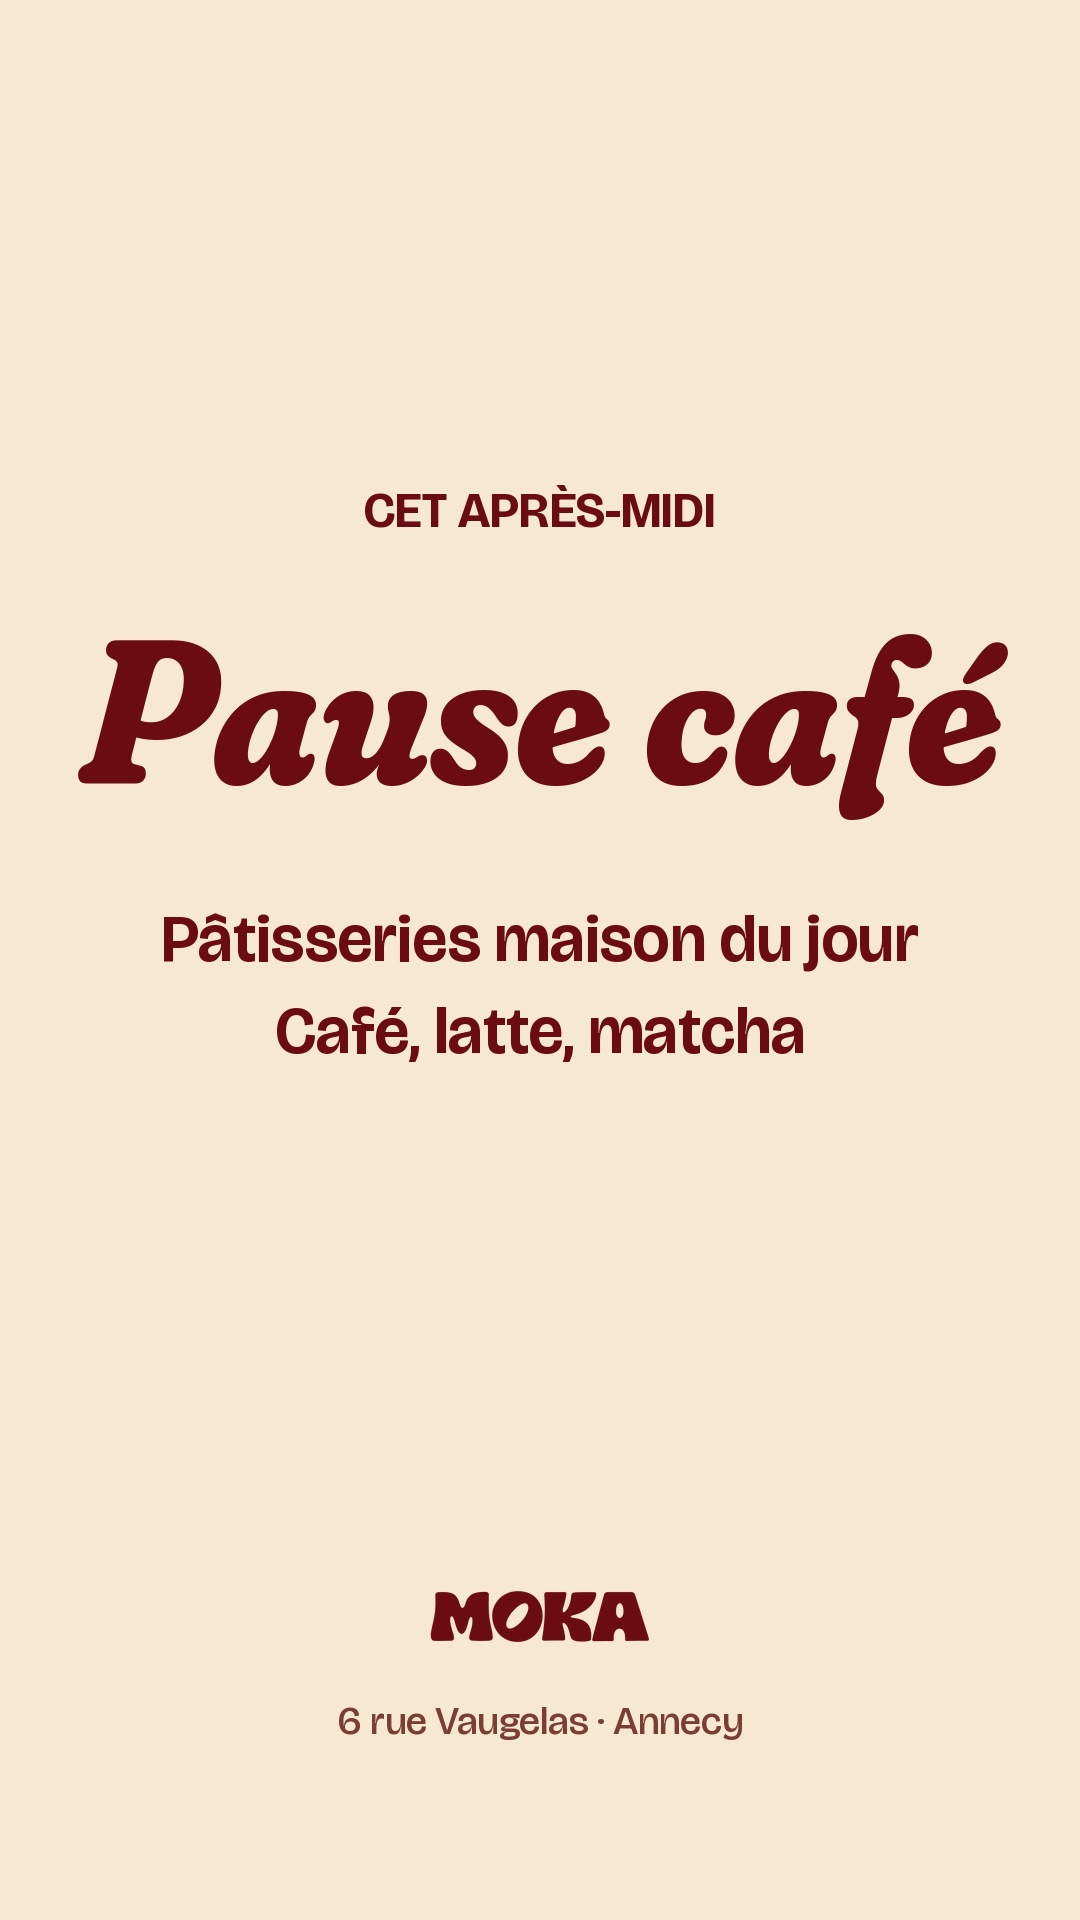
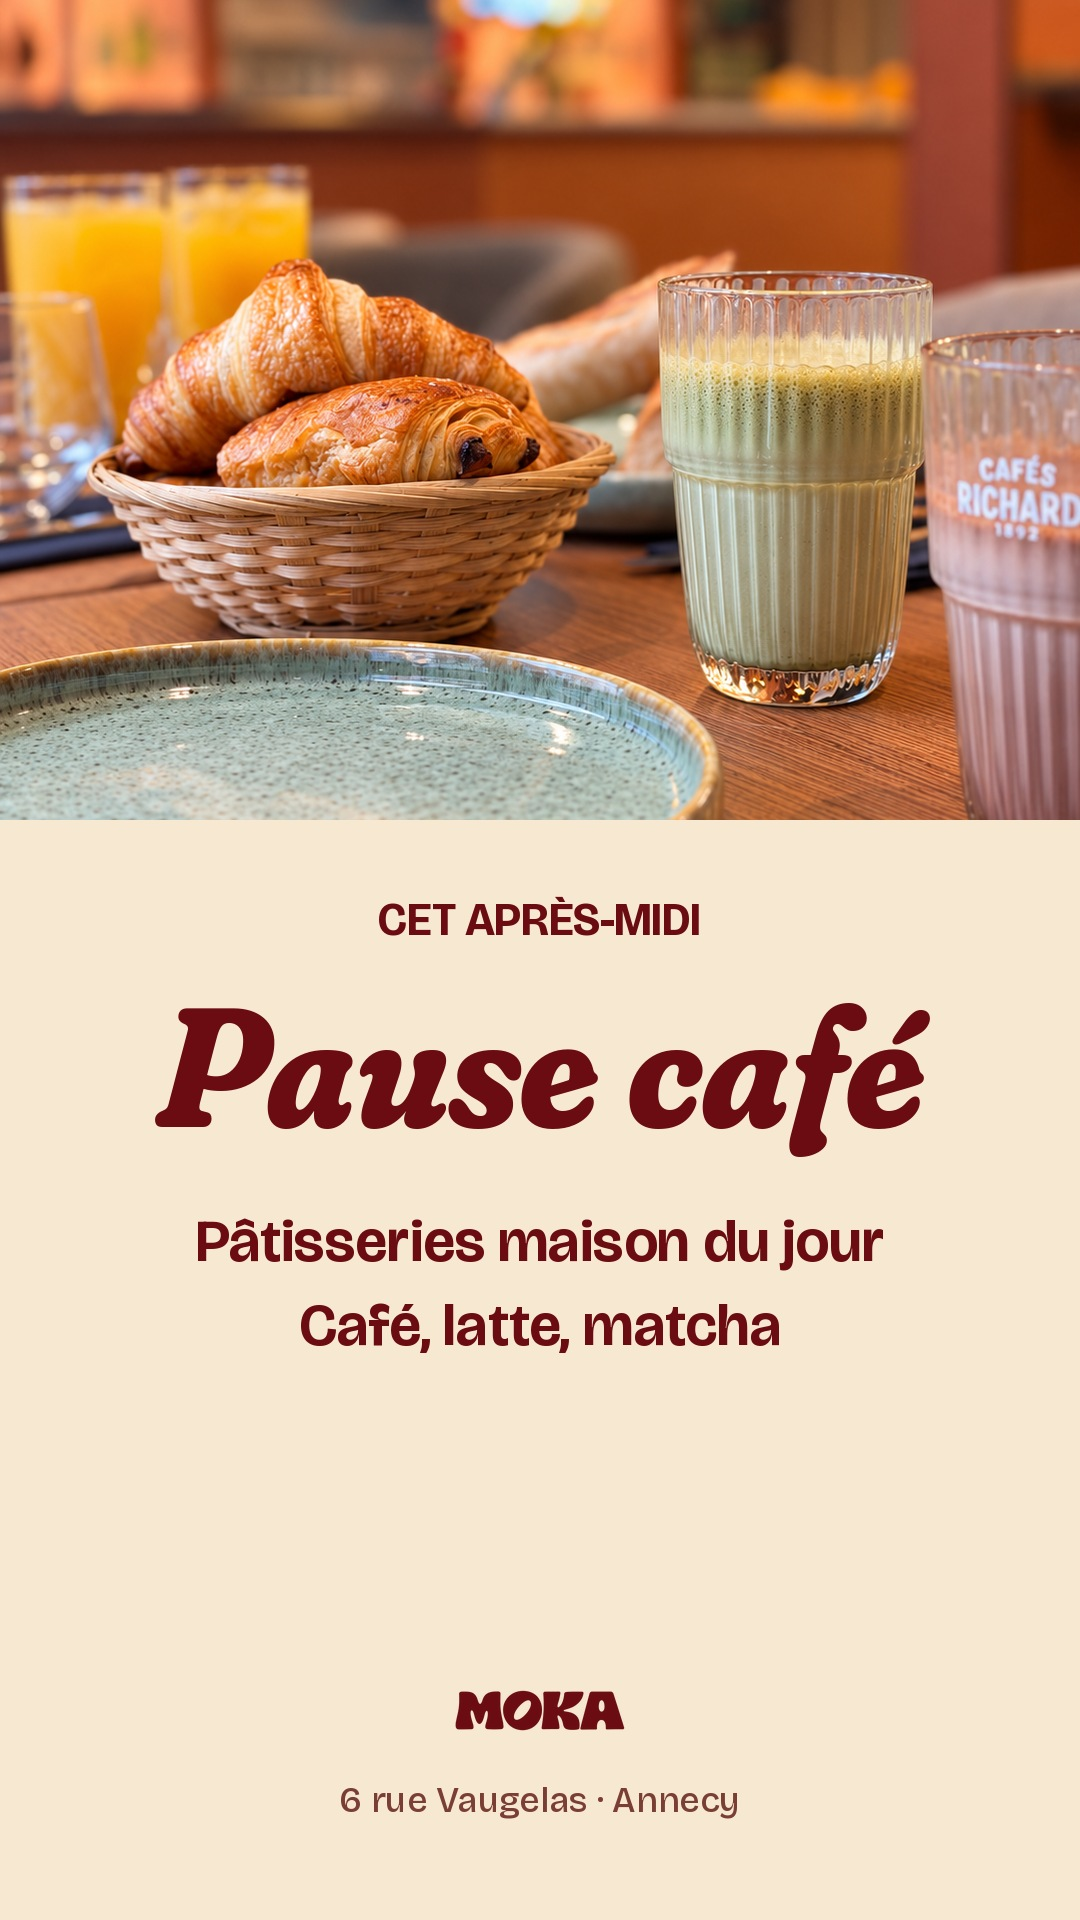
Règle photos : 1 post + 1 story max par plateforme ; story météo en texte seul
Claude-Session: https://claude.ai/code/session_019Bk9xZKYKJ5wJ3PbSAVgiY

diff --git a/social/tools/meteo/meteo.py b/social/tools/meteo/meteo.py
@@ -8,7 +8,7 @@ Usage :
 
 Écrit social/meteo/AAAA-MM-JJ.jpg (1080×1920) et affiche un JSON :
   {"file": ..., "alt": ..., "categorie": ..., "meteo": {...}}
-Ne publie rien : la publication se fait ensuite (Metricool).
+Story texte + logo uniquement (pas de photo). Ne publie rien : la publication se fait ensuite (Metricool).
 Jours d'ouverture : mardi → samedi. Dimanche et lundi : le script refuse (exit 2).
 """
 import argparse, datetime as dt, json, os, re, sys, urllib.request
@@ -136,11 +136,8 @@ def choose(cat, day):
     opts = BANK[cat]
     if day.weekday() not in (1, 2, 3):  # pas de variante télétravail le vendredi / samedi
         opts = [o for o in opts if not o.get('bureau')] or opts
-    used = deja_utilisees()
-    libres = [o for o in opts if GROUPE[o['p']] not in used]
-    if libres:
-        return libres[day.toordinal() % len(libres)], True
-    return opts[day.toordinal() % len(opts)], False  # toutes les photos déjà publiées : story texte
+    # Règle MOKA : la story météo est toujours en texte + logo, sans photo.
+    return opts[day.toordinal() % len(opts)], False
 
 def render(day, m):
     cat = categorie(m); v, avec_photo = choose(cat, day)
@@ -169,7 +166,6 @@ def render(day, m):
     k = (kicker[:1] + kicker[1:].lower()).replace('annecy', 'Annecy')
     parts = [k, ' '.join(title)] + info
     alt = norm(' '.join(p if p.endswith(('?', '!', '.')) else p + '.' for p in parts))
-    if avec_photo: enregistrer(GROUPE[v['p']], day, 'story météo')
     return dict(file=os.path.relpath(fn, REPO), alt=alt, categorie=cat, meteo=m,
                 photo=GROUPE[v['p']] if avec_photo else None)
 

diff --git a/social/tools/meteo/README.md b/social/tools/meteo/README.md
@@ -8,4 +8,5 @@ Chaque matin d'ouverture (mardi → samedi), une tâche planifiée :
 
 Les messages sont dans `BANK` (meteo.py). Règles : tutoiement, titres sans point final,
 9h / 16€ / 20h30 collés, pas de bubble tea tant qu'il n'est pas servi, photos réelles uniquement.
-Pour ajouter une photo : la déposer dans `photos/` (JPG ~1200 px) et la référencer dans `BANK`.
+La story météo est toujours en texte + logo, sans photo.
+Registre des photos publiées : `social/photos-usage.json` (une photo = au plus 1 post et 1 story par plateforme).
